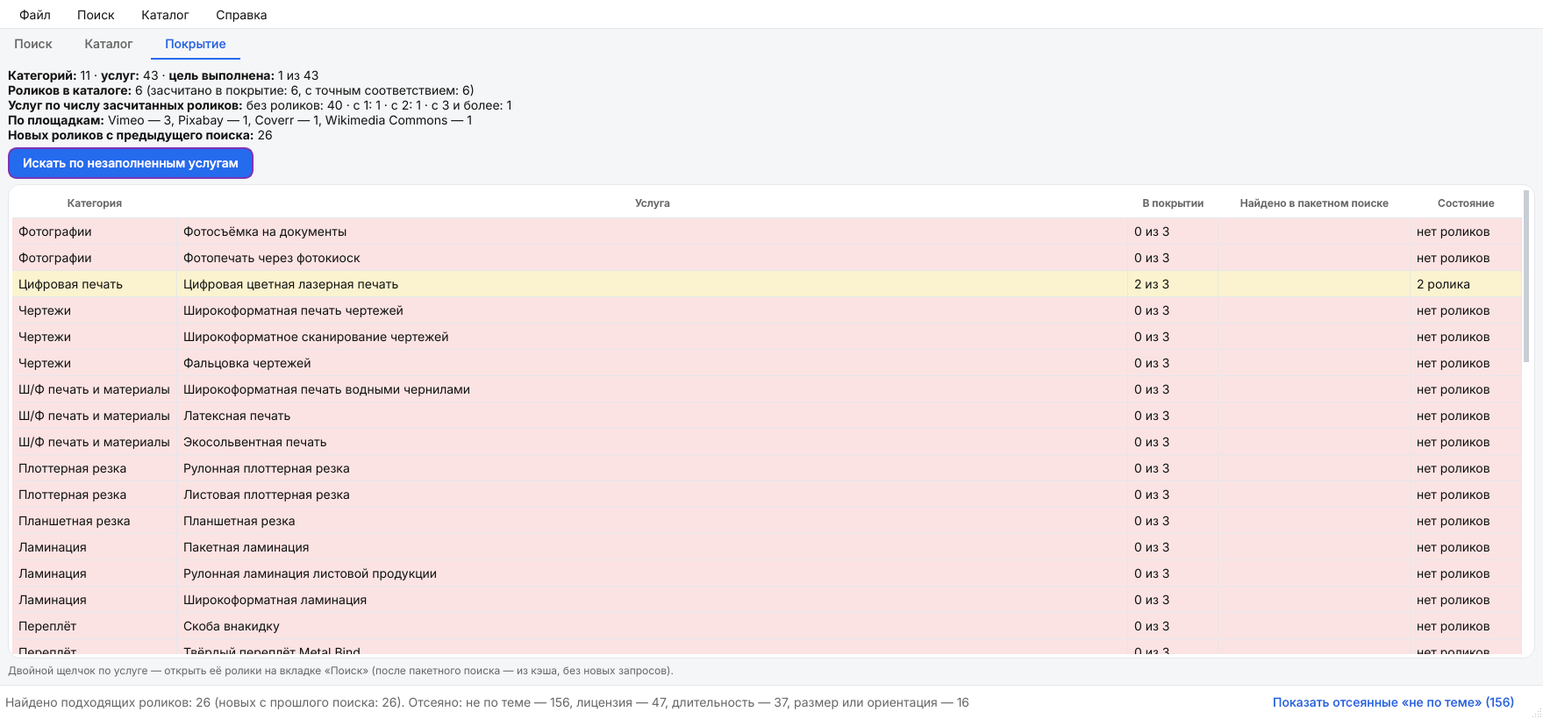
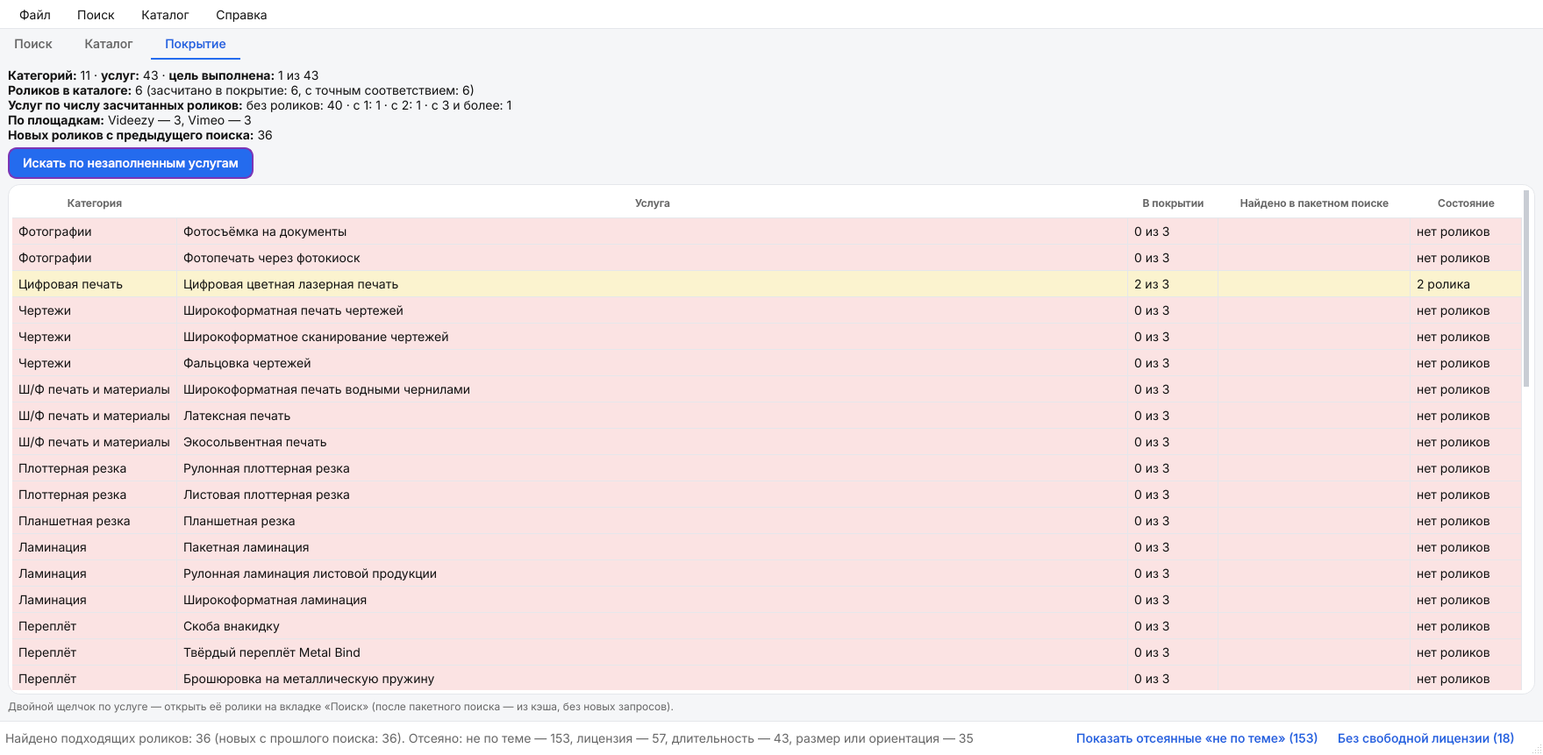
Уборка репозитория: README, зависимости, мёртвый код, скриншоты
- README переписан под нынешнюю программу: как она ищет, кнопки «не по теме»
  и «без свободной лицензии», справочник услуг, площадки, таблица лицензий
- Новые скриншоты (светлая и тёмная тема, редактор справочника)
- requirements.txt — только то, что нужно программе; requirements-dev.txt — тесты и сборка
- Удалён неиспользуемый код; токены дизайна импортируются явно, без «*»
- .gitignore: папки редакторов, кэш линтера, журналы
- CLAUDE.md: устаревшие места
- Версия 0.15.1

Claude-Session: https://claude.ai/code/session_01Uzu7bGifGsiu2ioQ2DCZsf

diff --git a/app/ui/theme.py b/app/ui/theme.py
@@ -10,8 +10,12 @@ from PyQt6.QtGui import QColor, QFont, QFontDatabase, QGuiApplication, QPalette
 from PyQt6.QtWidgets import QApplication, QWidget
 
 from app import paths
-from app.design import *  # noqa: F403 — токены доступны и как theme.PRIMARY, theme.SPACE_L
-from app.design import LIGHT, PALETTES, Palette
+# Токены, которые виджеты берут как theme.PRIMARY, theme.SPACE_L и т. п., — тоже отсюда.
+from app.design import (  # noqa: F401 — часть импортов только для виджетов
+    CONTROL_HEIGHT, CONTROL_HEIGHT_LARGE, DARK, FONT_BODY, FONT_CAPTION, FONT_FALLBACK, FONT_FAMILY, FONT_FILES,
+    FONT_SUBTITLE, FONT_TITLE, LIGHT, PALETTES, PRIMARY, RADIUS_BUTTON, RADIUS_CARD, RADIUS_INPUT, SECONDARY, SPACE_L,
+    SPACE_M, SPACE_S, SPACE_XS, SYSTEM, TERTIARY, THEME_NAMES, Palette,
+)
 
 _current = LIGHT
 

diff --git a/app/ui/services_dialog.py b/app/ui/services_dialog.py
@@ -58,7 +58,6 @@ class ServicesDialog(QDialog):
         self.categories = copy.deepcopy(categories)
         self.link_counts = link_counts or {}
         self.current: Category | Process | None = None
-        self.reset_requested = False
 
         self.tree = QTreeWidget()
         self.tree.setHeaderHidden(True)
@@ -356,7 +355,6 @@ class ServicesDialog(QDialog):
                                       "Удалить ваши правки и вернуть встроенный справочник услуг?")
         if answer == QMessageBox.StandardButton.Yes:
             paths.processes_file().unlink(missing_ok=True)
-            self.reset_requested = True
             self.accept()
 
 

diff --git a/app/paths.py b/app/paths.py
@@ -56,12 +56,6 @@ def processes_file() -> Path:
     return data_dir() / "processes.json"
 
 
-def cache_dir() -> Path:
-    path = data_dir() / "cache"
-    path.mkdir(exist_ok=True)
-    return path
-
-
 def defaults_file() -> Path:
     """Встроенные ключи API: сборка кладёт их рядом с exe из секретов GitHub, в репозитории их нет."""
     return app_dir() / "defaults.json"

diff --git a/app/export/registry.py b/app/export/registry.py
@@ -55,13 +55,6 @@ def _date(ts: float | None) -> str:
     return datetime.fromtimestamp(ts).strftime("%Y-%m-%d %H:%M") if ts else ""
 
 
-def _parse_date(text: str) -> float | None:
-    try:
-        return datetime.strptime(text.strip(), "%Y-%m-%d %H:%M").timestamp() if text.strip() else None
-    except ValueError:
-        return None
-
-
 def _yes_no(value) -> str:
     return "" if value is None else (YES if value else NO)
 

diff --git a/tests/test_services_editor.py b/tests/test_services_editor.py
@@ -2,8 +2,6 @@
 
 import json
 
-import pytest
-
 from app import paths, processes
 from app.processes import Level, Process
 

diff --git a/app/__init__.py b/app/__init__.py
@@ -1,1 +1,1 @@
-__version__ = "0.15.0"
+__version__ = "0.15.1"

diff --git a/README.md b/README.md
@@ -4,7 +4,7 @@
 
 # Поиск видео для копицентров Copy.ru
 
-Ищет на бесплатных видеостоках короткие ролики о полиграфии, проверяет лицензию,<br>
+Ищет на бесплатных видеостоках и в интернете короткие ролики о полиграфии, проверяет лицензию,<br>
 даёт посмотреть и скачать подходящие и ведёт каталог роликов по 43 услугам копицентра.
 
 [![Последняя версия](https://img.shields.io/github/v/release/r4v3r-63/copy-video-finder?label=%D0%B2%D0%B5%D1%80%D1%81%D0%B8%D1%8F&color=632EE6)](https://github.com/r4v3r-63/copy-video-finder/releases/latest)
@@ -20,14 +20,15 @@
 
 ## Что умеет
 
-- **Поиск по услуге.** Начните вводить название услуги — «ламинация», «брошюровка на пружину», «лазерная гравировка» — и выберите её из подсказок. Программа сама подставит русские и английские поисковые фразы и поищет на всех площадках сразу.
-- **Только полиграфия.** Ролики про стройку, еду, природу и всё, где нет слов услуги, отсеиваются. Отсеянное можно посмотреть одной кнопкой.
-- **Только подходящие лицензии.** Ролики с запретом коммерческого использования или изменений (NC, ND), редакционные, премиум и платные не показываются никогда.
-- **Просмотр и скачивание.** Ролик воспроизводится прямо в программе. Скачивается в выбранном качестве, рядом кладётся файл с лицензией, автором и готовым текстом атрибуции. WebM автоматически конвертируется в MP4.
-- **Каталог и покрытие.** Отобранные ролики привязываются к услугам; видно, по каким услугам ролики уже есть, а где нужен поиск.
-- **Экспорт.** Реестр в Excel и CSV, HTML-каталог для просмотра в браузере, сводка покрытия, плейлист M3U для телевизора.
-- **Автообновление.** Новая версия с GitHub ставится одной кнопкой, настройки и ролики сохраняются.
-- **Светлая и тёмная тема** в фирменном стиле Copy.ru — по настройке Windows или на выбор.
+- **Поиск по услуге.** Начните вводить название — «ламинация», «брошюровка на пружину», «лазерная гравировка» — и выберите услугу из подсказок. Программа сама подставит поисковые фразы и поищет на всех площадках сразу.
+- **Ищет как опытный редактор.** Сначала по названию услуги, если роликов мало — по оборудованию, действию, отдельным этапам и похожим операциям; на английском, русском, немецком и французском.
+- **Только полиграфия.** Ролики про стройку, еду, металлообработку, игры и всё, где нет слов услуги, отсеиваются.
+- **Только честные лицензии.** В выдаче — ролики, которые можно бесплатно использовать в коммерческих целях. Ещё ролики по теме без свободной лицензии видны отдельно, только для просмотра; платные — никогда.
+- **Просмотр и скачивание.** Ролик воспроизводится прямо в программе, скачивается в выбранном качестве, рядом — файл с лицензией, автором и готовым текстом атрибуции. WebM и MOV автоматически конвертируются в MP4.
+- **Каталог и покрытие** по 43 услугам: что уже есть, где нужен поиск, пакетный поиск по незаполненным услугам.
+- **Экспорт:** реестр в Excel и CSV, HTML-каталог, сводка покрытия, плейлист M3U для телевизора.
+- **Свой справочник услуг:** категории, услуги и поисковые фразы редактируются в программе.
+- **Автообновление**, **светлая и тёмная тема** в фирменном стиле Copy.ru.
 
 ## Установка
 
@@ -37,17 +38,32 @@
 
 Ключи площадок уже встроены — программа ищет сразу после запуска.
 
-Программа ничего не пишет в реестр и системные папки. Настройки, ключи API, кэш, журнал, каталог и скачанные ролики хранятся в папке `Данные` рядом с `CopyVideoFinder.exe`. Чтобы удалить программу, удалите её папку.
+Программа ничего не пишет в реестр и системные папки. Настройки, ключи, кэш, журнал, каталог и скачанные ролики хранятся в папке `Данные` рядом с `CopyVideoFinder.exe`. Чтобы удалить программу, удалите её папку.
 
 ## Как пользоваться
 
 1. Введите название услуги и выберите её из подсказок. Можно ввести и свой запрос — на русском или на английском.
-2. В выдаче — горизонтальные ролики до 3 минут, не ниже HD, с лицензией «Разрешено» или «Разрешено с атрибуцией». Пометка «новый» — ролик найден впервые.
-3. Нажмите на ролик — он воспроизведётся справа, там же автор и лицензия. Кнопка внизу **Без свободной лицензии** покажет ещё ролики по теме, которые можно только посмотреть: использовать их можно лишь с разрешения автора, скачать из программы нельзя.
+2. В выдаче — горизонтальные ролики до 3 минут, не ниже HD, со свободной лицензией. Пометка «новый» — ролик найден впервые, «смежный процесс» — нашёлся только по похожим операциям.
+3. Нажмите на ролик — он воспроизведётся справа, там же автор, лицензия и запрос, по которому он нашёлся.
 4. Подходит — **В каталог — лицензию проверил**; не подходит — **Не подходит** (больше не появится в поиске).
 5. Выберите качество (по умолчанию — лучшее до Full HD) и нажмите **Скачать**. Ролик сохранится в `Данные/Видео/Категория/Услуга/`, номер в каталоге — в начале имени файла.
 
+Внизу окна две кнопки:
+
+- **Показать отсеянные «не по теме»** — ролики со свободной лицензией, но без слов услуги в названии и тегах.
+- **Без свободной лицензии** — ролики по теме с лицензией «все права защищены», с запретом коммерческого использования или изменений. Их можно только посмотреть: скачать и засчитать в покрытие нельзя, использовать — лишь с разрешения автора (кнопка «Открыть страницу ролика»).
+
 Для лицензий «с атрибуцией» на экране нужно показывать титр с автором — текст есть в файле лицензии. Окончательное подтверждение лицензии — за пользователем.
+
+## Как программа ищет
+
+1. **Фразы услуги.** У каждой из 43 услуг — фразы на русском и английском и короткие ключевые слова («laminator»).
+2. **Уровни расширения.** Если подходящих роликов мало, поиск идёт дальше: оборудование → действие → отдельные этапы → похожие операции, в том числе по-немецки и по-французски.
+3. **Площадки и интернет.** Запросы уходят на все площадки сразу, а через поисковики (Tavily, без ключа — DuckDuckGo) — ещё и по страницам бесплатных стоков, как запрос `site:` в поисковике.
+4. **Фильтр темы.** Ролик показывается, только если в названии или тегах есть все слова хотя бы одной фразы услуги и есть слово полиграфии, а слов чужих тем — нет.
+5. **Фильтр лицензии, длительности и размера.** Лицензия — по таблице ниже; длительность — 5–180 секунд (меняется в настройках); только горизонтальные ролики не ниже HD.
+
+Лимиты площадок соблюдаются, ответы кэшируются на сутки.
 
 ## Каталог
 
@@ -55,7 +71,7 @@
 
 Слева — услуги с числом роликов и покрытием («2 из 3» — сколько засчитанных роликов из нужных), в середине — список с поиском и фильтром, справа — карточка ролика. В карточке можно поправить название и отметку, подтвердить лицензию, привязать ролик к другим услугам со степенью соответствия (точное, частичное, смежный процесс, только готовая продукция), отметить, подходит ли ролик для зацикливания, и оставить комментарий.
 
-В покрытие засчитываются ролики с подтверждённой подходящей лицензией, не отклонённые, со степенью не «только готовая продукция» и не удалённые с площадки (или уже скачанные).
+В покрытие засчитываются ролики с подтверждённой свободной лицензией, не отклонённые, со степенью не «только готовая продукция» и не удалённые с площадки (или уже скачанные).
 
 ## Покрытие
 
@@ -63,20 +79,20 @@
 
 Сколько услуг уже обеспечено роликами, сколько роликов засчитано, сколько дала каждая площадка. Красный — роликов нет, оранжевый — 1, жёлтый — 2, зелёный — цель выполнена (по умолчанию 3 ролика).
 
-Кнопка **Искать по незаполненным услугам** ищет по всем услугам с недостатком роликов — сначала по тем, где роликов нет совсем. Ничего не скачивается; двойной щелчок по услуге открывает найденное на вкладке «Поиск».
+Кнопка **Искать по незаполненным услугам** ищет по всем услугам с недостатком роликов — сначала по тем, где роликов нет совсем. Поминутные лимиты площадок программа пережидает сама. Ничего не скачивается; двойной щелчок по услуге открывает найденное на вкладке «Поиск».
 
-## Оформление
+## Справочник услуг
 
-<img src="docs/screenshots/search-dark.png" alt="Тёмная тема" width="100%">
+<img src="docs/screenshots/services.png" alt="Редактор справочника услуг" width="100%">
 
-Интерфейс оформлен по дизайн-системе Copy.ru: белые и почти чёрные поверхности, синий — для главных действий и активных элементов, фиолетовый — для редких акцентов, шрифт Inter. Тема — **Файл → Настройки → Оформление**: «Как в системе», «Светлая» или «Тёмная». Контраст текста в обеих темах — не ниже WCAG AA.
+**Поиск → Справочник услуг**: категории и услуги, синонимы для подсказок, поисковые фразы, ключевые слова, слова-исключения, цель покрытия и уровни поиска на четырёх языках. Правки хранятся в папке `Данные`, встроенный справочник возвращается одной кнопкой. При переименовании услуги ролики каталога остаются к ней привязаны.
 
 ## Меню
 
 **Поиск**
 - **История поиска** — повторить прошлый запрос.
-- **Справочник услуг** — добавить или изменить категории, услуги, их поисковые фразы и уровни поиска. Правки хранятся в папке `Данные`; встроенный справочник возвращается одной кнопкой.
-- **Словарь перевода** — добавить или исправить переводы русских слов на английский для запросов вне справочника услуг.
+- **Справочник услуг** — см. выше.
+- **Словарь перевода** — переводы русских слов на английский для запросов вне справочника услуг.
 
 **Каталог**
 - **Экспорт реестра в Excel / CSV** — все ролики каталога со всеми полями карточки; в Excel второй лист — сводка покрытия.
@@ -87,29 +103,31 @@
 - **Проверить ссылки сейчас** — не удалены ли ролики с площадок (автоматически — раз в неделю при запуске).
 - **Найти похожие дубли** — один и тот же ролик на разных площадках, по сходству превью.
 
+**Файл → Настройки** — длительность роликов, папка для скачивания, 4K, оформление, свои ключи площадок.
+
 ## Площадки и лицензии
 
 | Площадка | Что даёт |
 | --- | --- |
 | [Pixabay](https://pixabay.com/videos/) | основная площадка, Pixabay Content License |
 | [Coverr](https://coverr.co/) | Coverr License, поиск только по-английски |
-| [Vimeo](https://vimeo.com/) | только ролики Creative Commons; часть скачивается на странице ролика |
+| [Vimeo](https://vimeo.com/) | ролики Creative Commons; часть скачивается на странице ролика |
 | [Wikimedia Commons](https://commons.wikimedia.org/) | CC0, CC BY, CC BY-SA, общественное достояние |
 | [Europeana](https://www.europeana.eu/) | архивные ролики с открытыми лицензиями |
 | [Internet Archive](https://archive.org/) | CC и общественное достояние, скачивание на странице ролика |
 | [Videezy](https://www.videezy.com/) | бесплатные ролики Videezy Free License — с указанием Videezy.com в титрах |
-| Интернет | поиск через Tavily (бесплатный ключ) или DuckDuckGo: ролики с любых сайтов, если на странице есть файл и открытая лицензия Creative Commons |
+| Интернет | поиск через Tavily или DuckDuckGo: страницы бесплатных стоков и любые сайты, где на странице есть файл ролика и открытая лицензия Creative Commons |
 | [Pexels](https://www.pexels.com/) | включится, когда Pexels снова начнёт выдавать ключи |
+
+YouTube и Mixkit не подключаются; платные стоки и соцсети в выдаче поисковиков пропускаются.
 
 | Лицензия | Статус |
 | --- | --- |
 | CC0, Public Domain, Pexels License, Pixabay Content License, Coverr License | Разрешено |
 | CC BY, Videezy Free License | Разрешено с атрибуцией |
 | CC BY-SA | Разрешено с атрибуцией (с пометкой про share-alike) |
-| С NC или ND; Editorial, Personal, Premium, платные | Отклонено — не показываются |
-| Не распознана, «Royalty Free» | Требует проверки — в покрытие не засчитывается |
-
-Поиск идёт по уровням, как у опытного редактора: сначала по названию услуги, если роликов мало — по оборудованию, затем по действию и отдельным этапам, в конце — по похожим операциям; на английском, русском, немецком и французском. Ролик, найденный только по похожим операциям, предлагается в каталог как «смежный процесс». Лимиты площадок соблюдаются, ответы кэшируются на сутки.
+| С NC или ND, «все права защищены», не распознана | Только посмотреть — по кнопке «Без свободной лицензии» |
+| Editorial, Personal, Premium, Pro, платные | Не показываются |
 
 ## Обновления
 
@@ -125,9 +143,9 @@
 | Coverr | https://coverr.co/developers |
 | Vimeo | https://developer.vimeo.com/apps — создать приложение, затем личный токен с правами public |
 | Europeana | https://pro.europeana.eu/page/get-api |
-| Tavily (поиск по интернету) | https://app.tavily.com — бесплатно, без карты, 1000 запросов в месяц; программа тратит не больше 900. Без ключа поиск идёт через DuckDuckGo, который иногда временно ограничивает частые запросы |
+| Tavily (поиск по интернету) | https://app.tavily.com — бесплатно, без карты, 1000 запросов в месяц; программа тратит не больше 900 |
 | Brave Search (необязательно) | https://brave.com/search/api/ — платный, но $5 в месяц бесплатно; программа за бесплатный кредит не выходит |
-| Wikimedia Commons, Internet Archive, Videezy | ключ не нужен |
+| Wikimedia Commons, Internet Archive, Videezy, DuckDuckGo | ключ не нужен |
 | Pexels | https://www.pexels.com/api/ (выдача новых ключей сейчас приостановлена) |
 
 ## Для разработчика
@@ -135,14 +153,21 @@
 ```
 python -m venv .venv
 .venv\Scripts\activate
-pip install -r requirements.txt
+pip install -r requirements-dev.txt
 python -m app.main
 pytest
 pyinstaller build.spec --noconfirm
 ```
 
-Python 3.12+, PyQt6 и Qt Multimedia, requests, SQLite, openpyxl, Pillow; сборка — PyInstaller в режиме папки. Дизайн-токены (цвета, размеры, шрифты) — в `app/design.py`, оформление Qt — в `app/ui/theme.py`. FFmpeg для разработки: положите `ffmpeg.exe` и `ffprobe.exe` в папку `ffmpeg` в корне проекта или установите в PATH.
+Python 3.12+, PyQt6 и Qt Multimedia, requests, SQLite, openpyxl, Pillow; сборка — PyInstaller в режиме папки (однофайловый exe антивирусы принимают за троян). `requirements.txt` — то, что нужно программе, `requirements-dev.txt` — ещё тесты и сборка. FFmpeg для разработки: положите `ffmpeg.exe` и `ffprobe.exe` в папку `ffmpeg` в корне проекта или установите в PATH.
 
-Сборка для Windows — в GitHub Actions: **Actions → Сборка для Windows → Run workflow**. Без версии — ZIP в артефактах запуска; с версией (например, `0.12.0`) — ещё и выпуск в Releases с тегом `v0.12.0`. Ключи площадок встраиваются из секретов репозитория и в коде не хранятся.
+```
+app/           программа: окна (ui/), площадки (sources/), поиск, каталог, экспорт, обновления
+resources/     справочник 43 услуг, словарь перевода, логотип, шрифт Inter
+tests/         тесты на сохранённых ответах площадок (tests/fixtures), без обращений к сети
+docs/          скриншоты для README и картинка для превью репозитория
+```
 
-Правила проекта и устройство кода — в [CLAUDE.md](CLAUDE.md).
+Выпуск версии — в GitHub Actions: обновить `__version__` в `app/__init__.py`, затем **Actions → Сборка для Windows → Run workflow** с номером версии. Сборка прогоняет тесты, встраивает ключи площадок из секретов репозитория (в коде их нет), кладёт FFmpeg и публикует ZIP с контрольной суммой в Releases.
+
+Правила проекта и устройство кода подробно — в [CLAUDE.md](CLAUDE.md).

diff --git a/CLAUDE.md b/CLAUDE.md
@@ -44,7 +44,7 @@ app/
     europeana.py       # Europeana: ключ, reusability=open, файл — edmIsShownBy, английские названия
     archive.py         # Internet Archive: без ключа, без ссылок на файлы (только на сайте), без копий YouTube
     videezy.py         # Videezy: страницы сайта, Videezy Free License (атрибуция), файл — со страницы в сессии
-    web.py             # поиск по интернету: Brave/DuckDuckGo → страницы известных площадок или разметка страницы
+    web.py             # поиск по интернету: Tavily/Brave/DuckDuckGo → страницы известных площадок или разметка страницы
   licenses.py          # оценка лицензий
   catalog.py           # каталог в «Данные/catalog.sqlite»: ролики, привязки к услугам, отметки, покрытие
   downloader.py        # очередь скачивания, файл лицензии рядом с роликом
@@ -81,7 +81,7 @@ tests/
 
 - Цвет покрытия (`catalog.coverage_level`): 0 — нет роликов, 1, 2, 3 — цель услуги выполнена; в дереве каталога и на вкладке «Покрытие».
 - Вкладка «Покрытие» (`ui/coverage_view.py`): статистика ТЗ 7.2 (`catalog.statistics`) и таблица услуг.
-- Пакетный поиск (`batch.py`): порядок `catalog.batch_order` — без роликов, с одним, остальные с недостатком; услуги с выполненной целью пропускаются. Поминутные лимиты пережидает (`HttpSource.max_wait` = `batch.MAX_WAIT`, запрос уходит только после ожидания), часовые — нет; одинаковые сообщения о лимитах показываются один раз. Только находит кандидатов, ничего не скачивает; ответы кэшируются, поэтому «открыть услугу» потом идёт из кэша.
+- Пакетный поиск (`batch.py`): порядок `catalog.batch_order` — без роликов, с одним, остальные с недостатком; услуги с выполненной целью пропускаются. Поминутные лимиты пережидает (`HttpSource.max_wait` = `batch.MAX_WAIT`, запрос уходит только после ожидания), часовые — нет; паузу до `http.SHORT_WAIT` секунд (лимит «1 в секунду») ждёт и обычный поиск; одинаковые сообщения о лимитах показываются один раз. Только находит кандидатов, ничего не скачивает; ответы кэшируются, поэтому «открыть услугу» потом идёт из кэша.
 - История поиска: таблица `seen` (когда ролик впервые попал в выдачу) и `searches`; «новых с предыдущего поиска» — `Catalog.new_since_previous_search`; в выдаче впервые найденные помечены «новый» (кроме самого первого поиска).
 
 ## Экспорт и импорт (этап 7)
@@ -114,13 +114,13 @@ tests/
 - У каждой услуги в справочнике, кроме фраз по названию, есть `levels`: оборудование → действие → отдельные этапы → похожие операции, фразы на en/ru/de/fr. Следующий уровень запускается, только если подходящих роликов меньше `search.ENOUGH`. Ролик, найденный только на уровне с `match` «смежный процесс»/«частичное», так и предлагается в каталог (`VideoResult.match_hint`), в панели видно, по какому запросу он нашёлся (`found_by`).
 - Фильтр темы считает словами полиграфии и термины всех услуг (`search.print_stems`, без `topic.NOT_PRINT` — wire, metal, board…). Тест `test_level_phrases_pass_own_topic_filter`: ролик, названный как любая фраза уровня, проходит фильтр — новые фразы проверять им.
 - `Source.languages` — языки площадки, `Source.max_level` — до какого уровня ей слать запросы (Coverr — 1, интернет — 2).
-- Интернет (`WebSource`): запрос + «free stock video», страницы известных площадок открываются их модулями (`known_site`), прочие — по Open Graph/schema.org: нужен файл ролика и ссылка на Creative Commons, иначе ролик не показывается. YouTube, Mixkit, платные стоки и соцсети пропускаются (`SKIP_DOMAINS`). Поисковики (`web.Engine`) перебираются по очереди: Tavily (бесплатно 1000 в месяц, ключ без карты; `TAVILY_MONTHLY` = 900), Brave (платный, кредит $5 в месяц; `BRAVE_MONTHLY` = 900), DuckDuckGo без ключа. Пользователь просил только бесплатные варианты: месячные пределы не должны выходить за бесплатный объём (тест `test_free_limits_stay_free`). Поисковик при капче/«anomaly» отдыхает 10 минут, блокировку не обходим. Bing не используется: программам он отдаёт подменённую выдачу. Tavily ищет только по `web.FREE_STOCK_DOMAINS` (как «site:»), запрос без «free stock video» — иначе в выдаче страницы поиска стоков. Pexels туда не входит (403 для программ, ключей не выдаёт). Проверено вживую: по узким услугам поисковик находит десятки роликов, но ~3/4 без свободной лицензии — они видны по кнопке «Без свободной лицензии». Videvo теперь перенаправляет на Freepik — не подключается.
+- Интернет (`WebSource`): DuckDuckGo и Brave получают запрос + «free stock video» (de/fr — свои слова), страницы известных площадок открываются их модулями (`known_site`), прочие — по Open Graph/schema.org: нужен файл ролика и ссылка на Creative Commons, иначе ролик не показывается. YouTube, Mixkit, платные стоки и соцсети пропускаются (`SKIP_DOMAINS`). Поисковики (`web.Engine`) перебираются по очереди: Tavily (бесплатно 1000 в месяц, ключ без карты; `TAVILY_MONTHLY` = 900), Brave (платный, кредит $5 в месяц; `BRAVE_MONTHLY` = 900), DuckDuckGo без ключа. Пользователь просил только бесплатные варианты: месячные пределы не должны выходить за бесплатный объём (тест `test_free_limits_stay_free`). Поисковик при капче/«anomaly» отдыхает 10 минут, блокировку не обходим. Bing не используется: программам он отдаёт подменённую выдачу. Tavily ищет только по `web.FREE_STOCK_DOMAINS` (как «site:»), запрос без «free stock video» — иначе в выдаче страницы поиска стоков. Pexels туда не входит (403 для программ, ключей не выдаёт). Проверено вживую: по узким услугам поисковик находит десятки роликов, но ~3/4 без свободной лицензии — они видны по кнопке «Без свободной лицензии». Videvo теперь перенаправляет на Freepik — не подключается.
 
 ## Интерфейс источника
 
 Каждая площадка реализует `Source` из `sources/base.py`:
 
-- `search(query, filters, page, lang) -> list[VideoResult]` — `lang` (`ru`/`en`) передаётся в параметр языка API (Pexels `locale`, Pixabay `lang`)
+- `search(query, filters, page, lang) -> list[VideoResult]` — `lang` (`ru`/`en`/`de`/`fr`) передаётся в параметр языка API (Pexels `locale`, Pixabay `lang`); на каких языках площадка ищет — `Source.languages`
 - `get_details(source_id) -> VideoResult`
 - `get_license(result) -> LicenseInfo`
 
@@ -165,7 +165,7 @@ Vimeo: личный токен с правами public, поиск `filter=CC`,
 ```
 python -m venv .venv
 .venv\Scripts\activate
-pip install -r requirements.txt
+pip install -r requirements-dev.txt   # requirements.txt — только то, что нужно программе
 python -m app.main
 pytest
 pyinstaller build.spec --noconfirm
